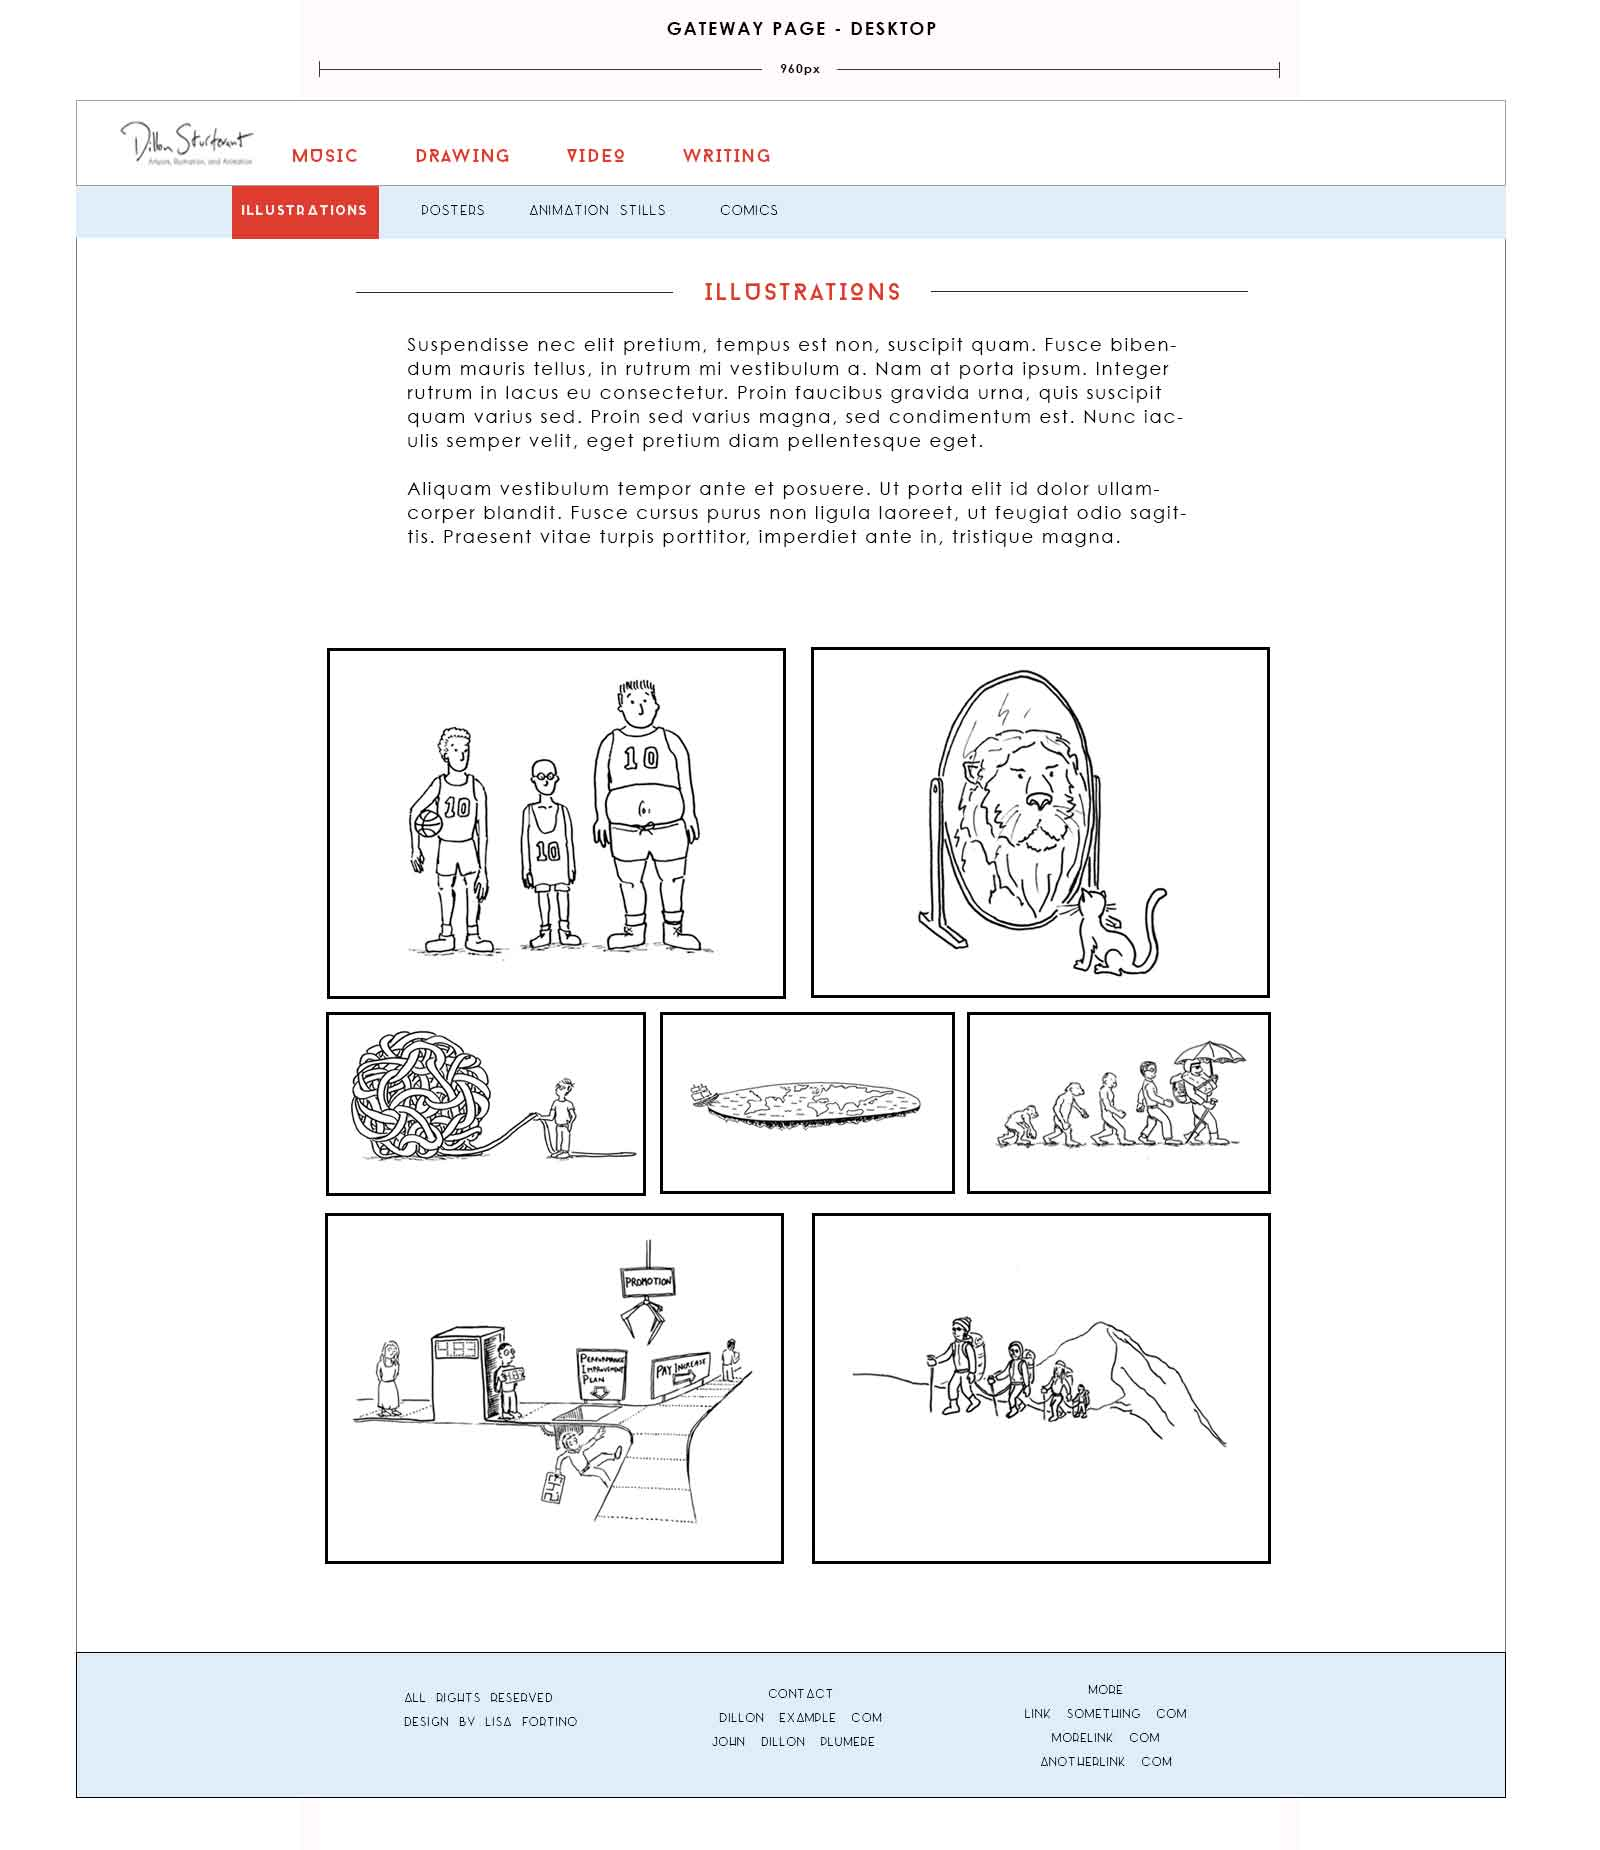
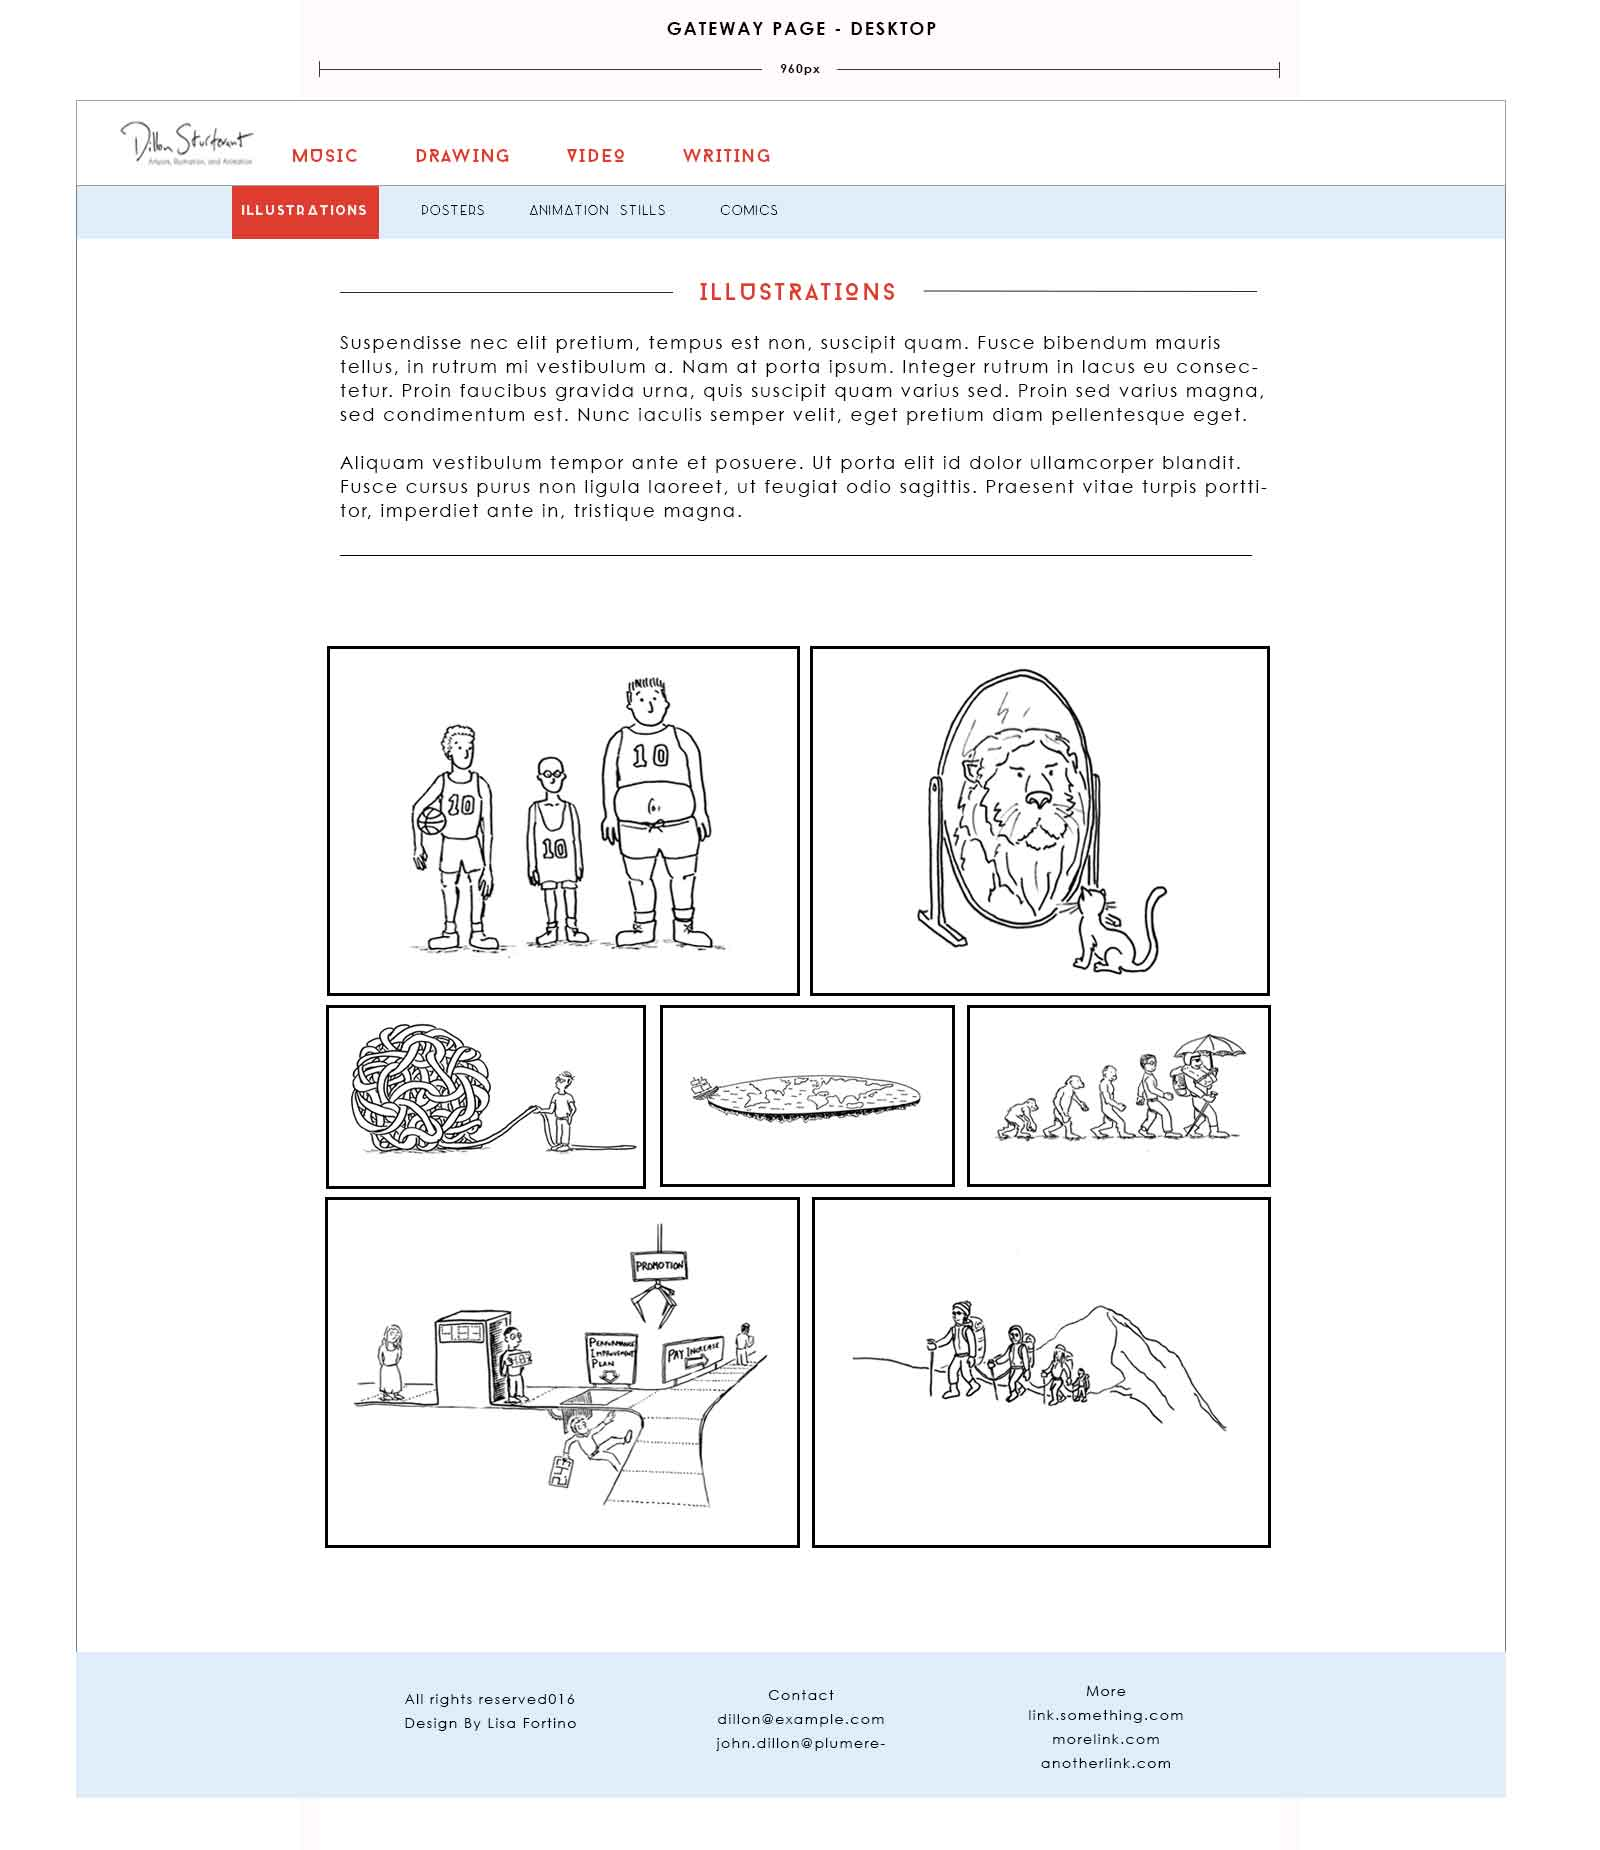
bigger visual design images

diff --git a/staging/visual_design.html b/staging/visual_design.html
@@ -1,0 +1,60 @@
+<!doctype html>
+<html>
+<head>
+<meta charset="utf-8">
+<title>Visual Design</title>
+<link href='https://fonts.googleapis.com/css?family=Josefin+Slab' rel='stylesheet' type='text/css'>
+<link href='https://fonts.googleapis.com/css?family=Raleway:400,700,300' rel='stylesheet' type='text/css'>
+<link href="css/styles.css" rel="stylesheet" type="text/css" >
+<!--[if gte IE 9]>
+  <style type="text/css">
+    .gradient {
+       filter: none;
+    }
+  </style>
+<![endif]-->
+</head>
+<body>
+
+	<div class="wireframe_wrapper">
+		<main class="wireframe_main">
+
+			<h1>Visual Design</h1>
+			<p><a href="staging.html">Back to home</a></p>
+		
+				
+				<div class=vis_Des>
+				<h2>Option 1</h2>
+					<img src="images/small_vs1_gateway_desktop.jpg" alt="visual design 1">
+				</div>
+
+				
+				<div class=vis_Des>
+				<h2>Option 2</h2>
+					<img src="images/small_vs2_gateway_desktop.jpg" alt="visual design 2">
+				</div>
+
+				
+				<div class=vis_Des>
+				<h2>Option 3</h2>
+					<img src="images/small_vs3_gateway_desktop.jpg" alt="visual design 3">
+				</div>
+
+				
+				<div class=vis_Des>
+				<h2>Option 4</h2>
+					<img src="images/small_vs4_gateway_desktop.jpg" alt="visual design 4">
+				</div>
+		
+			<footer>
+				<ul class="foot">
+					<li>All Rights Reserved</li>
+					<li>Winter 2016</li>
+					<li>Lisa Fortino's Shit</li>
+				</ul>
+			</footer>
+		</main>
+	</div><!--end wrapper-->
+
+</body>
+</html>

diff --git a/staging/staging.html b/staging/staging.html
@@ -23,7 +23,7 @@
 			<ul class="assi">
 				<li><a href="info_arch.html">Information Architeture</a></li>
 				<li><a href="wireframe.html">Wireframe</a></li>
-				<li><a href="#">Visual Design</a></li>
+				<li><a href="visual_design.html">Visual Design</a></li>
 				<li><a href="#">Page Template</a></li>
 				<li><a href="#">Protosite</a></li>
 				<li><a href="#">Final</a></li>

diff --git a/staging/css/styles.css b/staging/css/styles.css
@@ -87,7 +87,17 @@ img.mobile {
 	width: 25%;
 	float: left;
 	margin-left: 2.5em;
-	
+}
+
+.vis_Des {
+	width: 99%;
+	float: left;
+	display: inline-block;
+	padding-top: 2em;
+}
+
+.vis_Des h2 {
+	border-bottom: none;
 }
 
 ul.assi {
